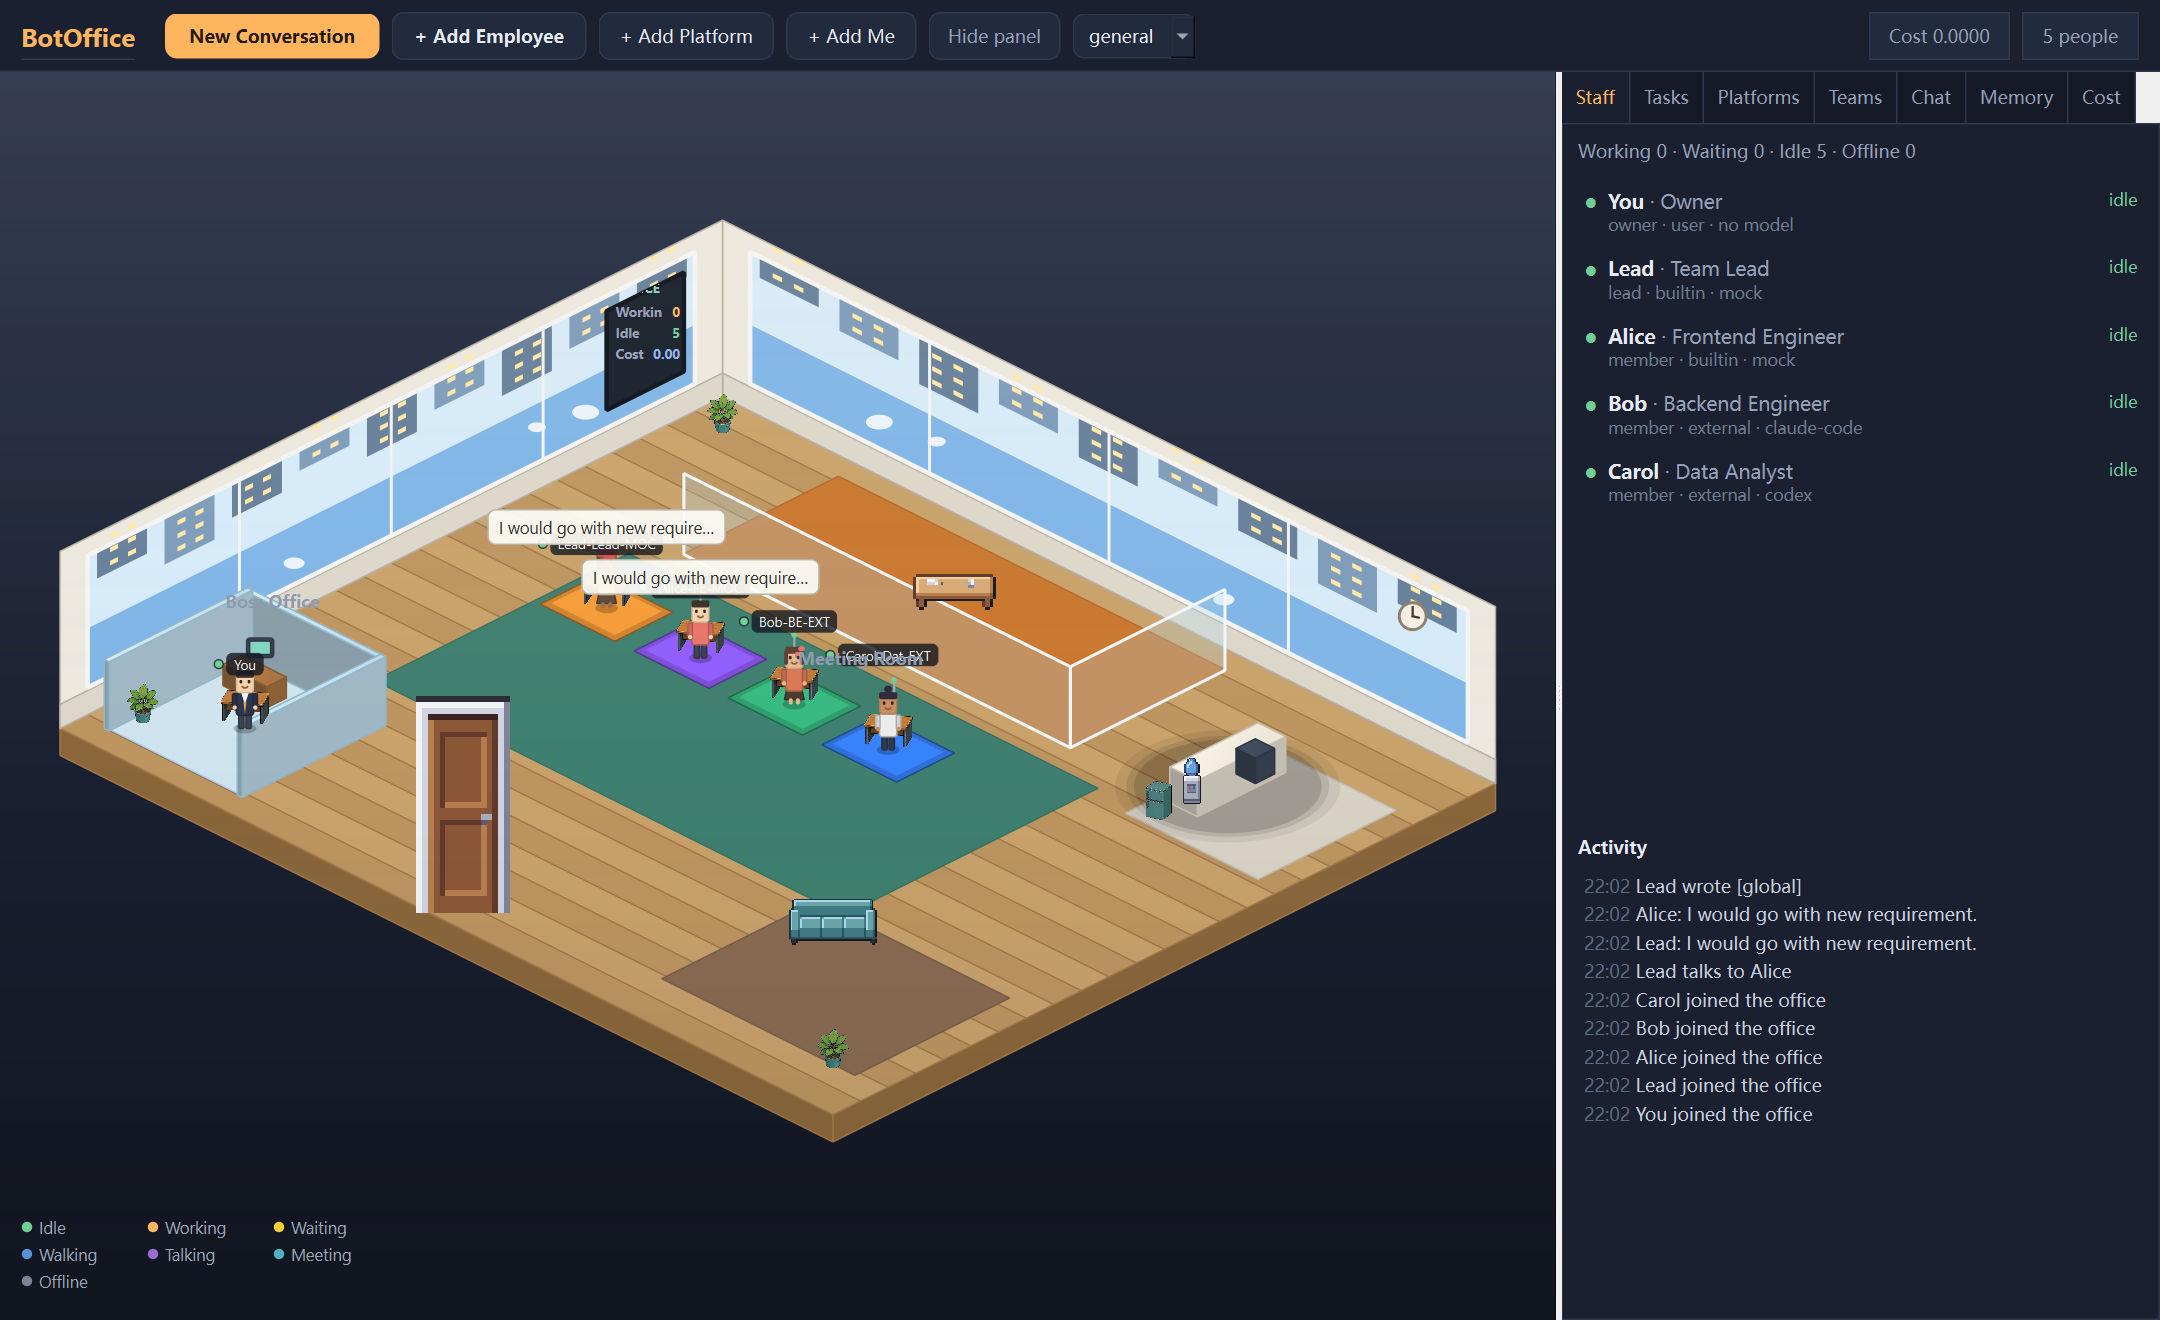
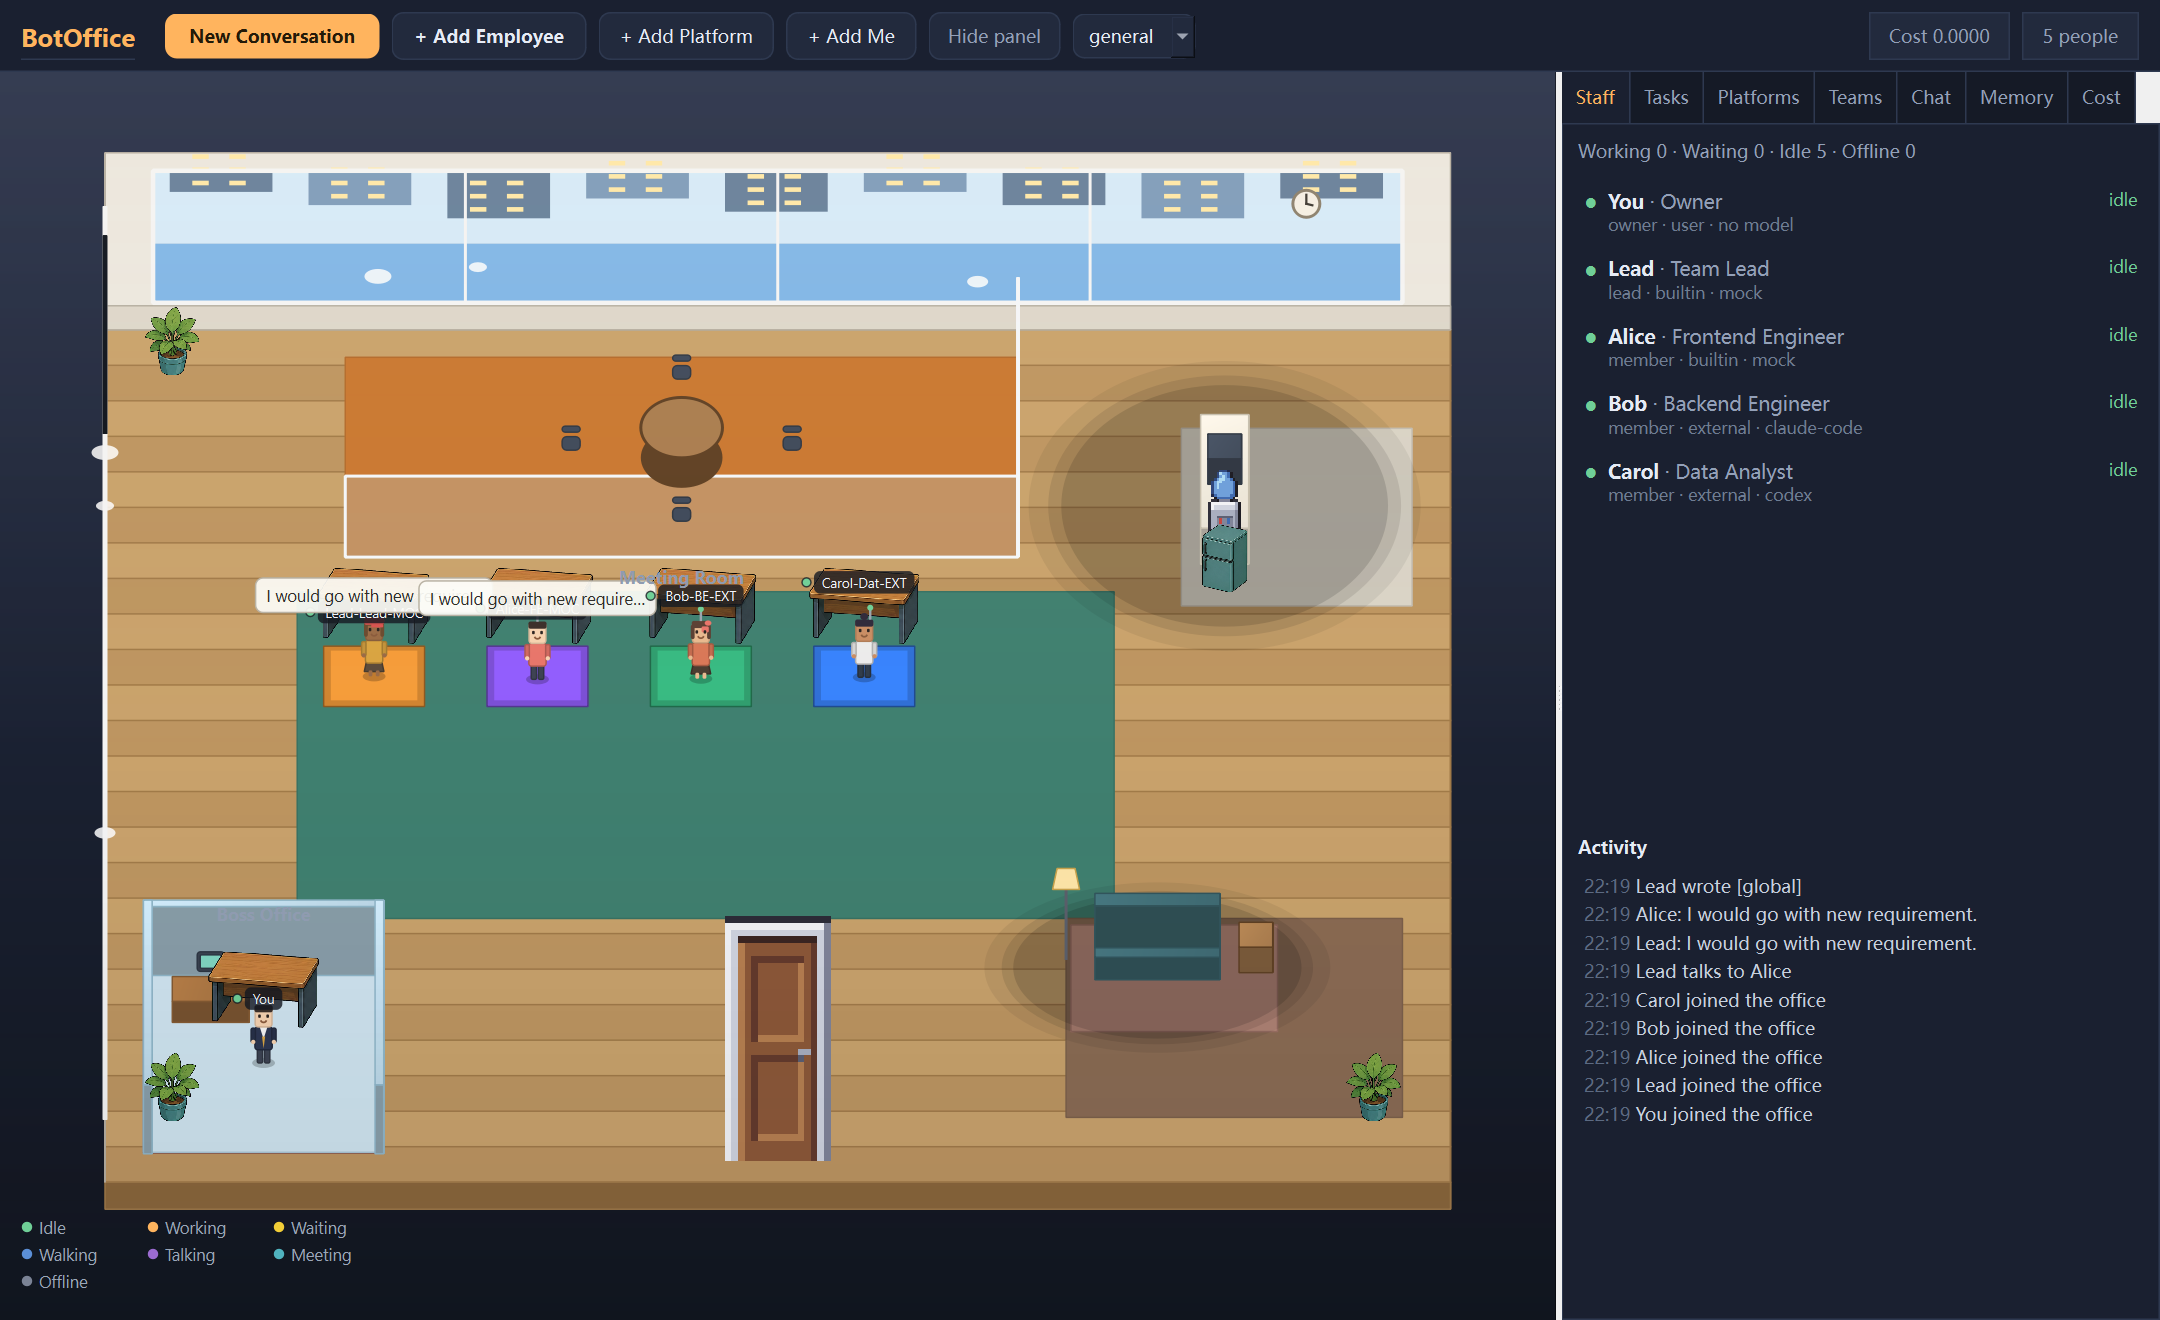
Switch the scene to a three-quarter top-down projection
The downloaded art is three-quarter top-down, so the isometric floor could
never line up with it. The projection now maps x to the right and z down
with foreshortening, which is what the props were drawn for.

- to_screen/to_world/fit_room/centering rewritten for the new projection
- depth sorting is by z, since larger z is nearer to the camera
- sprites and shadows scale by the full tile size instead of half of it
- the desk sprite sits behind the occupant so the character is not hidden
- the sofa and meeting table stay vector: the 16x16 flat sprites clash
  with the three-quarter props

diff --git a/botoffice/gui/scene.py b/botoffice/gui/scene.py
@@ -38,7 +38,7 @@ from PySide6.QtGui import (
 # Isometric tile size. The scene scales these down when the room grows so
 # that every desk stays visible without scrolling.
 BASE_TILE_W = 46.0
-BASE_TILE_H = 23.0
+BASE_TILE_H = 34.0
 WALK_FRAMES = 5
 
 # Wall height in screen pixels (not scaled: it reads as a fixed ceiling).
@@ -292,14 +292,16 @@ class OfficeScene:
         return max(0.8, min(1.55, self.tile_w / BASE_TILE_W))
 
     def to_screen(self, x: float, z: float, height: float = 0.0) -> QPointF:
-        sx = (x - z) * self.tile_w / 2 + self._offset_x
-        sy = (x + z) * self.tile_h / 2 - height + self._offset_y
+        """Three-quarter top-down: x runs right, z runs down and is squashed."""
+        sx = x * self.tile_w + self._offset_x
+        sy = z * self.tile_h - height + self._offset_y
         return QPointF(sx, sy)
 
     def to_world(self, sx: float, sy: float) -> tuple[float, float]:
-        a = (sx - self._offset_x) / (self.tile_w / 2)
-        b = (sy - self._offset_y) / (self.tile_h / 2)
-        return ((a + b) / 2, (b - a) / 2)
+        return (
+            (sx - self._offset_x) / self.tile_w,
+            (sy - self._offset_y) / self.tile_h,
+        )
 
     def fit_room(self, width: int, height: int) -> None:
         """Scale the tiles so the whole room fits the viewport.
@@ -308,14 +310,14 @@ class OfficeScene:
         shrinks the tiles only as far as a readable minimum.
         """
         b = self.bounds
-        span_x = (b["max_x"] - b["min_x"]) + (b["max_z"] - b["min_z"])
-        span_z = (b["max_x"] - b["min_x"]) + (b["max_z"] - b["min_z"])
+        span_x = b["max_x"] - b["min_x"]
+        span_z = b["max_z"] - b["min_z"]
         if span_x <= 0 or span_z <= 0:
             return
-        needed_w = span_x * BASE_TILE_W / 2
-        needed_h = span_z * BASE_TILE_H / 2
-        scale_w = (width - 80) / needed_w if needed_w > 0 else 1.0
-        scale_h = (height - 150) / needed_h if needed_h > 0 else 1.0
+        needed_w = span_x * BASE_TILE_W
+        needed_h = span_z * BASE_TILE_H
+        scale_w = (width - 140) / needed_w if needed_w > 0 else 1.0
+        scale_h = (height - 240) / needed_h if needed_h > 0 else 1.0
         scale = min(1.9, scale_w, scale_h)
         scale = max(scale, 0.42)  # keep avatars readable
         self.tile_w = BASE_TILE_W * scale
@@ -333,8 +335,8 @@ class OfficeScene:
         b = self.bounds
         centre_x = (b["min_x"] + b["max_x"]) / 2
         centre_z = (b["min_z"] + b["max_z"]) / 2
-        raw_x = (centre_x - centre_z) * self.tile_w / 2
-        raw_y = (centre_x + centre_z) * self.tile_h / 2
+        raw_x = centre_x * self.tile_w
+        raw_y = centre_z * self.tile_h
         self._offset_x = width / 2 - raw_x
         self._offset_y = height / 2 - raw_y + 40
 
@@ -368,7 +370,7 @@ class OfficeScene:
         self._draw_overlays(painter)
 
     def _sorted_avatars(self) -> list[Avatar]:
-        return sorted(self.avatars.values(), key=lambda a: a.x + a.z)
+        return sorted(self.avatars.values(), key=lambda a: a.z)
 
     # ------------------------------------------------------------ geometry
 
@@ -406,7 +408,7 @@ class OfficeScene:
         pixmap = self.sprites.get(name)
         if pixmap is None:
             return False
-        target_w = max(1.0, world_width * self.tile_w / 2)
+        target_w = max(1.0, world_width * self.tile_w)
         scale = target_w / pixmap.width()
         target_h = pixmap.height() * scale
         base = self.to_screen(x, z)
@@ -425,8 +427,8 @@ class OfficeScene:
             painter.setBrush(QBrush(QColor(0, 0, 0, alpha)))
             painter.drawEllipse(
                 QPointF(centre.x(), centre.y()),
-                rx * self.tile_w / 2 * scale,
-                ry * self.tile_h / 2 * scale,
+                rx * self.tile_w * scale,
+                ry * self.tile_h * scale,
             )
 
     def _box(self, painter: QPainter, x: float, z: float, w: float, d: float,
@@ -533,7 +535,7 @@ class OfficeScene:
     def _draw_entrance(self, painter: QPainter) -> None:
         """The door people come in through, on the front edge."""
         ex, ez = self.entrance
-        if self._sprite(painter, "door", ex, ez, 3.4):
+        if self._sprite(painter, "door", ex, ez, 2.2):
             return
         left = self.to_screen(ex - 1.7, ez)
         right = self.to_screen(ex + 1.7, ez)
@@ -657,10 +659,10 @@ class OfficeScene:
             color = RUG_COLORS[index % len(RUG_COLORS)]
             painter.setBrush(QBrush(color))
             painter.setPen(QPen(color.darker(150), 1))
-            painter.drawPolygon(self._quad(item.x - 1.35, item.z - 1.05, 2.7, 2.1, 1.0))
+            painter.drawPolygon(self._quad(item.x - 1.05, item.z - 0.85, 2.1, 1.7, 1.0))
             painter.setBrush(QBrush(color.lighter(118)))
             painter.setPen(Qt.NoPen)
-            painter.drawPolygon(self._quad(item.x - 1.15, item.z - 0.85, 2.3, 1.7, 1.6))
+            painter.drawPolygon(self._quad(item.x - 0.9, item.z - 0.7, 1.8, 1.4, 1.6))
 
     def _zone(self, painter: QPainter, x: float, z: float, w: float, d: float,
               color: QColor) -> None:
@@ -900,8 +902,6 @@ class OfficeScene:
         painter.drawRoundedRect(QRectF(screen.x() - 7, screen.y() - 6, 14, 9), 1, 1)
 
     def _draw_meeting_set(self, painter: QPainter, mx: float, mz: float) -> None:
-        if self._sprite(painter, "table", mx, mz, 3.2):
-            return
         top = self.to_screen(mx, mz, 20)
         rx = 1.7 * self.tile_w / 2
         ry = 1.7 * self.tile_h / 2
@@ -934,13 +934,13 @@ class OfficeScene:
             painter.drawEllipse(tip, 7, 11)
 
     def _draw_furniture(self, painter: QPainter) -> None:
-        for item in sorted(self.furniture, key=lambda f: f.x + f.z):
+        for item in sorted(self.furniture, key=lambda f: f.z):
             if item.kind != "desk":
                 continue
             self._draw_desk(painter, item.x, item.z, item.owner)
 
     def _draw_desk(self, painter: QPainter, x: float, z: float, owner: str) -> None:
-        if self._sprite(painter, "desk", x, z, 2.0):
+        if self._sprite(painter, "desk", x, z - 0.75, 2.6):
             return
         self._shadow(painter, x, z + 0.2, 2.2, 1.6)
 

diff --git a/scripts/setup_assets.py b/scripts/setup_assets.py
@@ -45,8 +45,6 @@ MAPPING: dict[str, list[Path]] = {
     "mug": [PROPS / "Props" / "office_props_mug_01.png"],
     "papers": [PROPS / "Props" / "office_props_papers_stack_01.png"],
     # The 16x16 sample covers what the 3/4 pack leaves out.
-    "sofa": [SAMPLE / "sofa.png"],
-    "table": [SAMPLE / "coffee_table.png"],
     "door": [SAMPLE / "door_wood.png"],
     "whiteboard": [SAMPLE / "whiteboard.png"],
     "cooler": [SAMPLE / "water_dispenser.png"],
